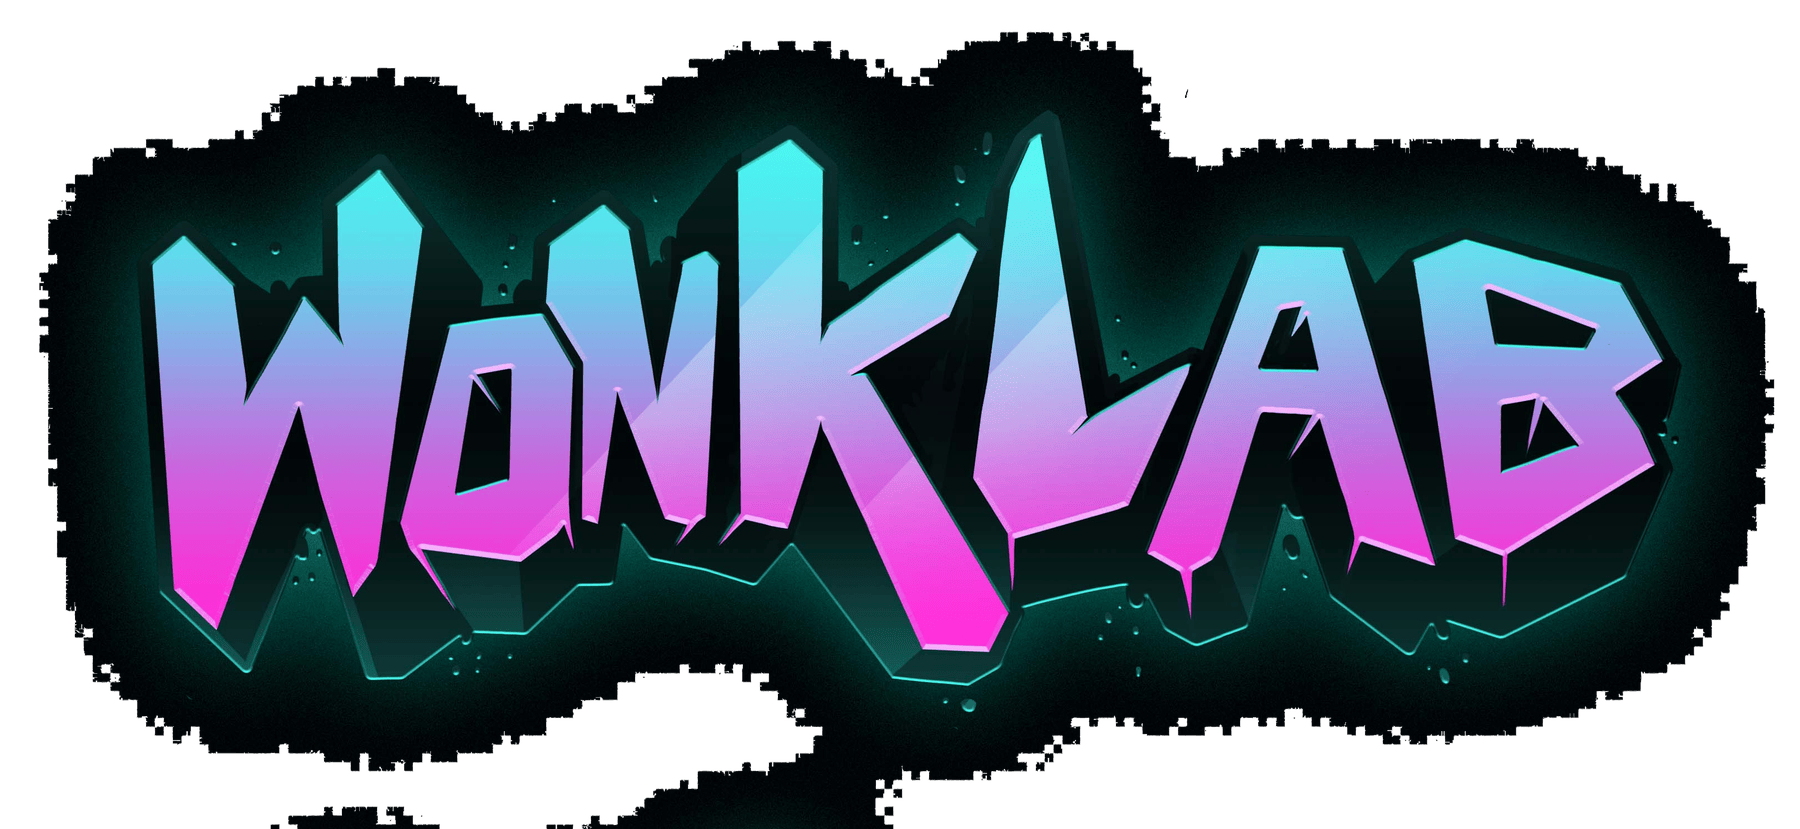
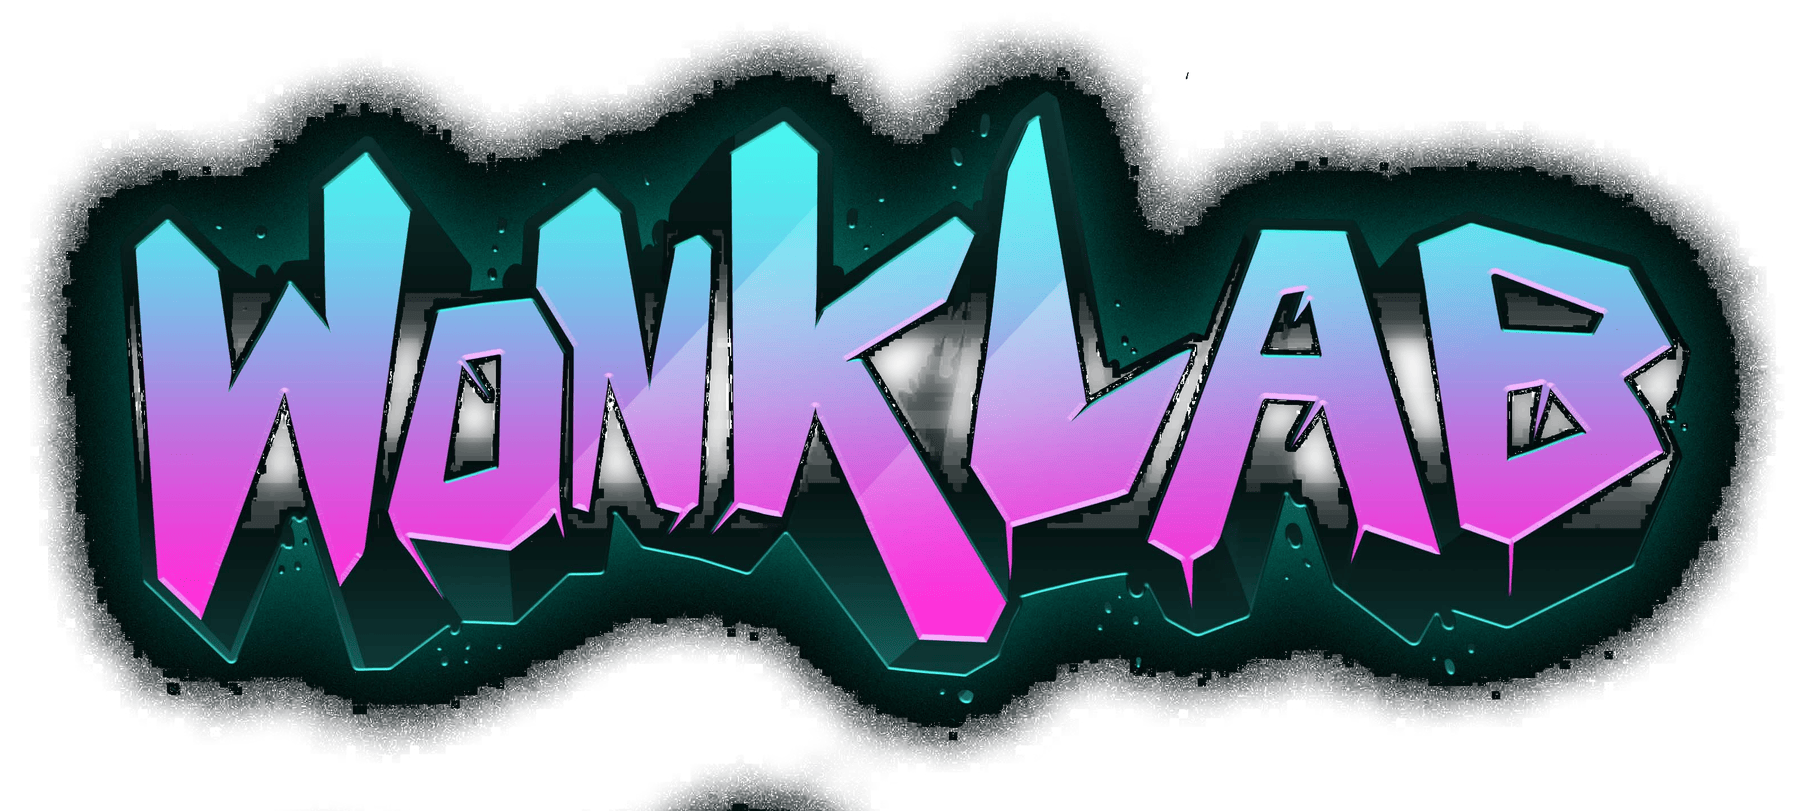
Wonk Lab: feather the color wordmark so the glow blends into the page (#10)
The first color crop left a hard near-black matte around the letters.
Re-key the official sheet so 3D and the teal glow stay, and the outer
halo fades to transparent against the /wonklab background.

diff --git a/wonklab/index.html b/wonklab/index.html
@@ -50,7 +50,7 @@
         <h1 class="wonklab-logo">
           <picture>
             <source type="image/webp" srcset="/assets/wonklab/wonklab-wordmark.webp">
-            <img src="/assets/wonklab/wonklab-wordmark.png" alt="Wonk Lab" width="1800" height="829">
+            <img src="/assets/wonklab/wonklab-wordmark.png" alt="Wonk Lab" width="1800" height="811">
           </picture>
         </h1>
         <p class="lede wonklab-lede">Plugins by Dirt Monkey. Sample packs coming soon.</p>
